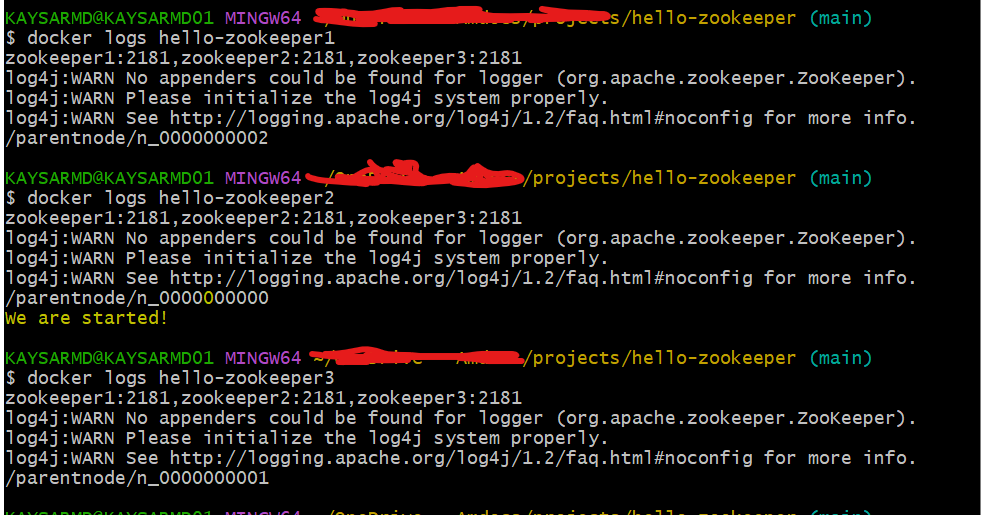
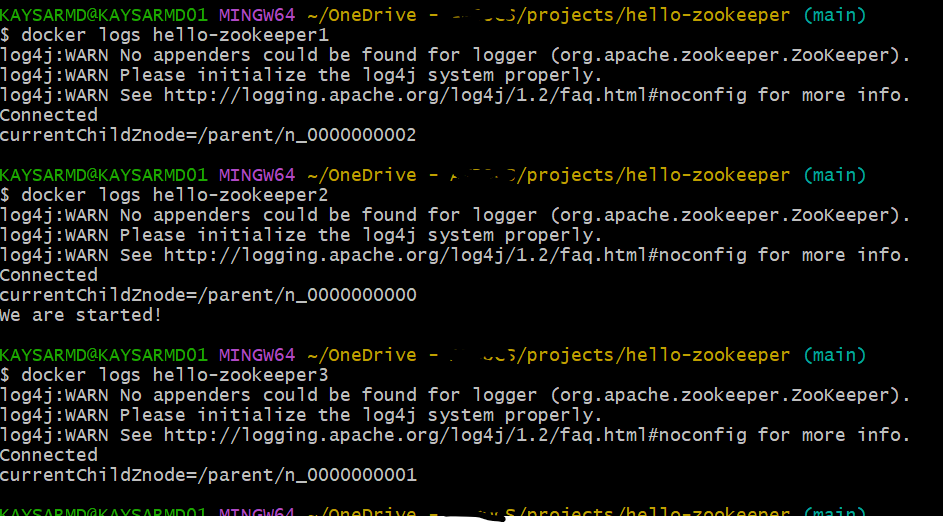
update readme and refractor code

diff --git a/src/main/java/com/zookeeper/example/ZookeeperServiceImpl.java b/src/main/java/com/zookeeper/example/ZookeeperServiceImpl.java
@@ -1,28 +1,40 @@
 package com.zookeeper.example;
 
-import org.apache.zookeeper.CreateMode;
-import org.apache.zookeeper.KeeperException;
-import org.apache.zookeeper.ZooDefs;
+import org.apache.zookeeper.*;
 
 import java.util.List;
 
+/**
+ * This class is the implementation of ZookeeperService class
+ */
 public class ZookeeperServiceImpl implements ZookeeperService {
     private static final String parentZnode = "/parent";
     private ZookeeperClient zookeeperClient;
     private String currentChildZnode;
-    ZookeeperClientConfig zookeeperClientConfig;
+
     public ZookeeperServiceImpl(ZookeeperClient zookeeperClient) {
         this.zookeeperClient=zookeeperClient;
     }
 
+    /**
+     * This method create parent node
+     * @throws InterruptedException
+     * @throws KeeperException
+     */
     @Override
     public void createParentNode() throws InterruptedException, KeeperException {
-        if (zookeeperClient.getZooKeeper().exists(parentZnode, false) == null) {
+        if (zookeeperClient.getZooKeeper().exists(parentZnode, null) == null) {
             zookeeperClient.getZooKeeper().create(parentZnode, new byte[0], ZooDefs.Ids.OPEN_ACL_UNSAFE,
                     CreateMode.PERSISTENT);
         }
     }
 
+    /**
+     * This method creates non-persistent ephemeral node.
+     *
+     * @throws InterruptedException
+     * @throws KeeperException
+     */
     @Override
     public void createEphemeralNode() throws InterruptedException, KeeperException {
         this.currentChildZnode = zookeeperClient.getZooKeeper().create(parentZnode + "/n_", null,
@@ -30,25 +42,39 @@ public class ZookeeperServiceImpl implements ZookeeperService {
         System.out.println("currentChildZnode=" + this.currentChildZnode);
     }
 
+    /**
+     * This method returns all the available children's path
+     *
+     * @param parentZnode
+     * @return list of child node paths
+     * @throws InterruptedException
+     * @throws KeeperException
+     */
     @Override
-    public List<String> getChildNodes(String parentZnode, boolean b) throws InterruptedException, KeeperException {
+    public List<String> getChildNodes(String parentZnode) throws InterruptedException, KeeperException {
         return zookeeperClient.getZooKeeper().getChildren(ZookeeperServiceImpl.parentZnode, false);
     }
+
+    /**
+     * this method finds the lowest sequence number among the children nodes and decide if the current node is leader
+     * or not.
+     *
+     * @return true  | false
+     * @throws InterruptedException
+     * @throws KeeperException
+     */
     @Override
     public boolean isLeader() throws InterruptedException, KeeperException {
-        int currentZnodeNumber = Integer.parseInt(currentChildZnode.substring(currentChildZnode.lastIndexOf('/') + 3));
+        int currentZnodeNumber = Integer.parseInt(currentChildZnode.substring(currentChildZnode.lastIndexOf('_') + 1));
 
         // Get all children of the start znode
-        List<String> children = this.getChildNodes(parentZnode, false);
+        List<String> children = this.getChildNodes(parentZnode);
 
         int minZnodeNumber = children.stream()
                 .map(n -> Integer.parseInt(n.substring(2)))
                 .min(Integer::compare)
                 .orElse(-1);
 
-        if (currentZnodeNumber == minZnodeNumber) {
-            return true;
-        }
-        return false;
+        return currentZnodeNumber == minZnodeNumber;
     }
 }

diff --git a/src/main/java/com/zookeeper/example/App.java b/src/main/java/com/zookeeper/example/App.java
@@ -3,9 +3,9 @@ package com.zookeeper.example;
 import org.apache.zookeeper.KeeperException;
 
 /**
- * This class print a message on startup once across the cluster.
- * It uses Leader Election receipies provided by apache zookeeper
- * to make sure only one node will print the message accross cluster.
+ * This class prints a message on startup once across the cluster.
+ * It uses Leader Selection approach provided by apache zookeeper
+ * to make sure only leader prints the message across cluster.
  */
 public class App {
     ZookeeperService zookeeperService;
@@ -15,8 +15,22 @@ public class App {
     }
 
     /**
-     * This method creates a prent node (if not present) which is persistent and ephemeral sequential node
-     * The node of lowest sequence number will be leader and if its matches will the currentNode then return true.
+     * This method creates a prent node (if not present) which is persistent and ephemeral (non-persistent) sequential
+     * nodes are created under the parent node.
+     *
+     * The parent node ensures that the starting point which is always available even all the ephemeral nodes got deleted.
+     *
+     * Everytime a new node is started up - it create a new ephemeral node with a unique sequence number (ensured by apache
+     * zookeeper)
+     *
+     * The child node of lowest sequence number will be selected as leader and prints the message.
+     *
+     * If the leader is deleted after printing the message - only when a new nodes is coming up - it will check again if
+     * the new node has the lowest sequence number or not. The new node will be lowest only if there are no active child
+     * node present under the parent node.
+     *
+     * For our scenarios - the watcher is not necessary to re-select the leader if a child node goes down.
+     * Because the message will be printed only once across the cluster when at least 1 node is present.
      *
      * @throws InterruptedException
      * @throws KeeperException
@@ -33,12 +47,18 @@ public class App {
             throw  new IllegalArgumentException("Arguments are missing");
         }
 
+        // Initialise Zookeeper Client
         ZookeeperClient zookeeperClient = new ZookeeperClient(
                 new ZookeeperClientConfig(args[0]));
+
+        // Start the Application
         App app = new App(new ZookeeperServiceImpl(zookeeperClient));
         app.startNodeAndPrintMessage();
 
         // This sleep is for simulating work
         Thread.sleep(Long.parseLong(args[1]));
+
+        // closing the connection
+        zookeeperClient.closeConnection();
     }
 }

diff --git a/src/main/java/com/zookeeper/example/ZookeeperClient.java b/src/main/java/com/zookeeper/example/ZookeeperClient.java
@@ -1,34 +1,38 @@
 package com.zookeeper.example;
 
+import org.apache.zookeeper.WatchedEvent;
 import org.apache.zookeeper.Watcher;
 import org.apache.zookeeper.ZooKeeper;
 
 import java.io.IOException;
+import java.util.concurrent.CountDownLatch;
 
 public class ZookeeperClient {
     private ZooKeeper zooKeeper;
     ZookeeperClientConfig zookeeperClientConfig;
+    CountDownLatch connectionLatch = new CountDownLatch(1);
     public ZookeeperClient(ZookeeperClientConfig zookeeperClientConfig) throws IOException, InterruptedException {
         this.zookeeperClientConfig = zookeeperClientConfig;
         initialise();
     }
 
+
+    /**
+     * this is to initialise connection.
+     *
+     * @throws IOException
+     * @throws InterruptedException
+     */
     private void initialise() throws IOException, InterruptedException {
-        int countRetry = 0;
-        while (true) {
-            try {
-                this.zooKeeper = new ZooKeeper(zookeeperClientConfig.getConnectionString(),
-                        zookeeperClientConfig.getTimeout(), null);
-                break;
-            } catch (IOException e) {
-                if (countRetry++ == zookeeperClientConfig.getMaxRetry()) {
-                    System.out.println("Maximum retries reached");
-                    throw e;
+
+        this.zooKeeper = new ZooKeeper(zookeeperClientConfig.getConnectionString(),
+            zookeeperClientConfig.getTimeout(), watchedEvent -> {
+                if (watchedEvent.getState() == Watcher.Event.KeeperState.SyncConnected) {
+                    System.out.println("Connected");
+                    connectionLatch.countDown();
                 }
-                System.out.println("Failed to connect to ZooKeeper, retrying in " + zookeeperClientConfig.getRetryDelay() + "ms...");
-                Thread.sleep(zookeeperClientConfig.getRetryDelay());
-            }
-        }
+        });
+        connectionLatch.await();
     }
 
     public void closeConnection() throws InterruptedException {
@@ -39,7 +43,4 @@ public class ZookeeperClient {
         return zooKeeper;
     }
 
-    public void setZooKeeper(ZooKeeper zooKeeper) {
-        this.zooKeeper = zooKeeper;
-    }
 }

diff --git a/src/main/java/com/zookeeper/example/ZookeeperService.java b/src/main/java/com/zookeeper/example/ZookeeperService.java
@@ -8,5 +8,5 @@ public interface ZookeeperService {
     void createParentNode() throws InterruptedException, KeeperException;
     void createEphemeralNode() throws InterruptedException, KeeperException;
     boolean isLeader() throws InterruptedException, KeeperException;
-    List<String> getChildNodes(String parentZnode, boolean b) throws InterruptedException, KeeperException;
+    List<String> getChildNodes(String parentZnode) throws InterruptedException, KeeperException;
 }

diff --git a/src/main/java/com/zookeeper/example/ZookeeperClientConfig.java b/src/main/java/com/zookeeper/example/ZookeeperClientConfig.java
@@ -1,7 +1,10 @@
 package com.zookeeper.example;
 
+/**
+ * This is the zookeeper client config class.
+ */
 public class ZookeeperClientConfig {
-    private int timeout = 3000;
+    private int timeout = 5000;
     private int maxRetry = 3;
     private int retryDelay = 2000;
     private String connectionString = "localhost:2181";

diff --git a/README.md b/README.md
@@ -18,41 +18,36 @@ Therefore - each nodes need to know if the message is already printed by another
 # Solution
 This above problem can be solved using Apache Zookeeper which is an opensource co-ordination service and
 widely used highly scalable configuration management, co-ordinating services, handling race-condition, distributed 
-locking, deadlock prevention, leader election in a distributed environment. 
+locking, deadlock prevention, leader selection in a distributed environment. 
 
-We will use leader election service of apache zookeeper to solve the problem.
+We will use leader selection approach of apache zookeeper to solve the problem.
+Steps are:
 
-## Leader Election
-
-Leader election is a critical aspect of distributed systems, ensuring that tasks are managed efficiently by designating 
-one node as the leader. ZooKeeper, with its robust coordination capabilities, simplifies this process. 
-By using ZooKeeper’s atomic broadcast protocol, ZAB (ZooKeeper Atomic Broadcast), distributed systems can elect a 
-leader reliably and efficiently. The use of ephemeral and sequential nodes in ZooKeeper provides an effective mechanism
-for leader election, ensuring that the system remains consistent and fault-tolerant even when nodes fail or network partitions occur. 
-Leader Election Process includes:
-
-- Ephemeral Sequential Nodes: Each participating node creates an ephemeral sequential node in ZooKeeper. These nodes are temporary and are automatically deleted when the session ends.
-- Nodes create their ephemeral sequential nodes in a designated ZooKeeper path. This ensures each node has a unique identifier.
-- Detecting the Leader: The node with the smallest sequence number is elected as the leader. If this node fails, the next node in line becomes the leader.
-- Node Deletion: When a node is deleted, the nodes that were watching it are notified. These nodes then check if they are the new leader.
-- Rechecking Leadership: Nodes recheck their status when the watched node is deleted. This ensures that the leader role is always occupied.
+- Start Zookeeper Cluster
+- create a persistent parent node (/parent) in the cluster. The parent node ensures that the starting point which is always
+  available even all the ephemeral nodes got deleted
+- create a non-persistent child node(/parent/n_<sequence_number>) also known as ephemeral sequential in apache zookeeper.
+- find the node of lowest sequence number from the all active children of the parent node (/parent/*).
+- The node with the lowest sequence number will print ("We are started!").
 
 # Tools and library used
-- maven (3.9.9) for dependency management
+- maven (3.9.8) for dependency management
 - java 8
 - Apache Zookeeper client library
 - docker and docker-compose to startup zookeeper cluster and run the multiple instance of application.
 
 # Build
-- mvn clean package
+- ./build.sh
 
 # Run Simulation - 3 node apache zookeeper and 3 process of the java application
 
-- ./start-simulation.sh 
-- ./stop-simulation.sh # for stopping the java application
+- ./start-zookeeper.sh
+- ./start-app.sh
+- ./stop-app.sh # for stopping the java application
+- ./stop-zookeeper.sh # for stopping the cluster
 
 ## Notes:
-- we have used Thread.sleep(Long.MAX_VALUE) and logged current node names to simulate the work - which was not mentioned in the requirement. 
+- we have used Thread.sleep(<Milisec>) and logged current node names to simulate the work - which was not mentioned in the requirement. 
 
 # Output snapshot:
 
@@ -62,4 +57,4 @@ Leader Election Process includes:
 ## Logs of the application
 ![alt text](docs/output-app-logs.png)
 
-From the logs we can see only node number printed the expected message ("We are started!")
+From the logs we can see only 1 node printed the expected message ("We are started!")
